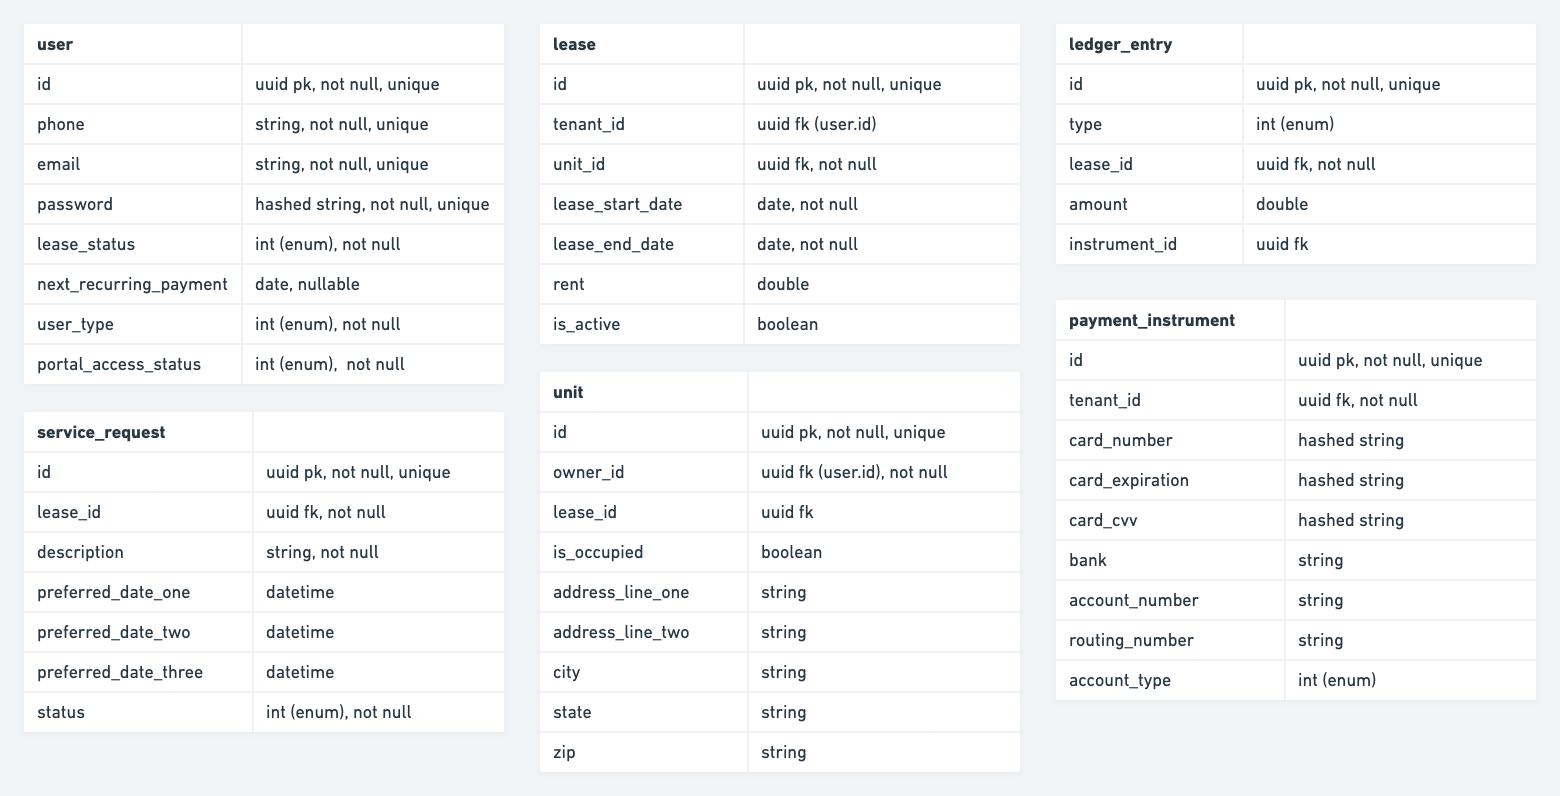
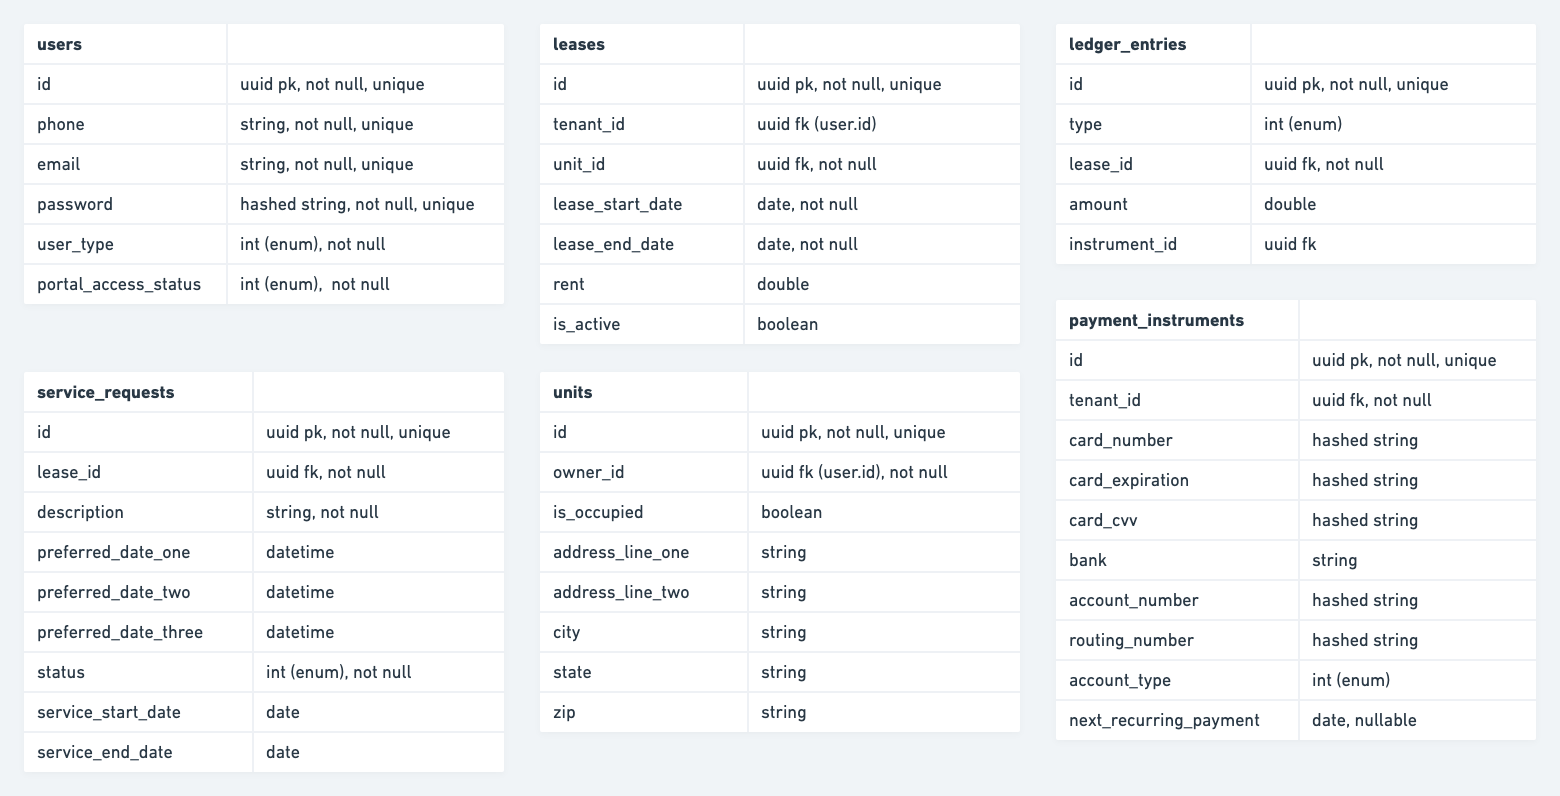
docs: adds postgres setup sql and docs, modifies related diagrams

diff --git a/setup/db/db-setup.md b/setup/db/db-setup.md
@@ -1,0 +1,8 @@
+## Postgres Setup
+
+[This article](https://aws.amazon.com/blogs/database/managing-postgresql-users-and-roles) outlines fine-grained access control in PostgreSQL.
+
+### Tasks
+- Create database: `CREATE DATABASE tenantwin;`.
+- Create tables for each entity in `documentation/diagrams/entities` diagram: `./tables.sql`.
+- Create users for each service in `documentation/diagrams/services` diagram. Create a `<service_name>_readwrite` role for each service with the required permissions on table(s), schema and database. Grant each service its readwrite role. All steps in: `./users-roles.sql` (modify passwords first).
